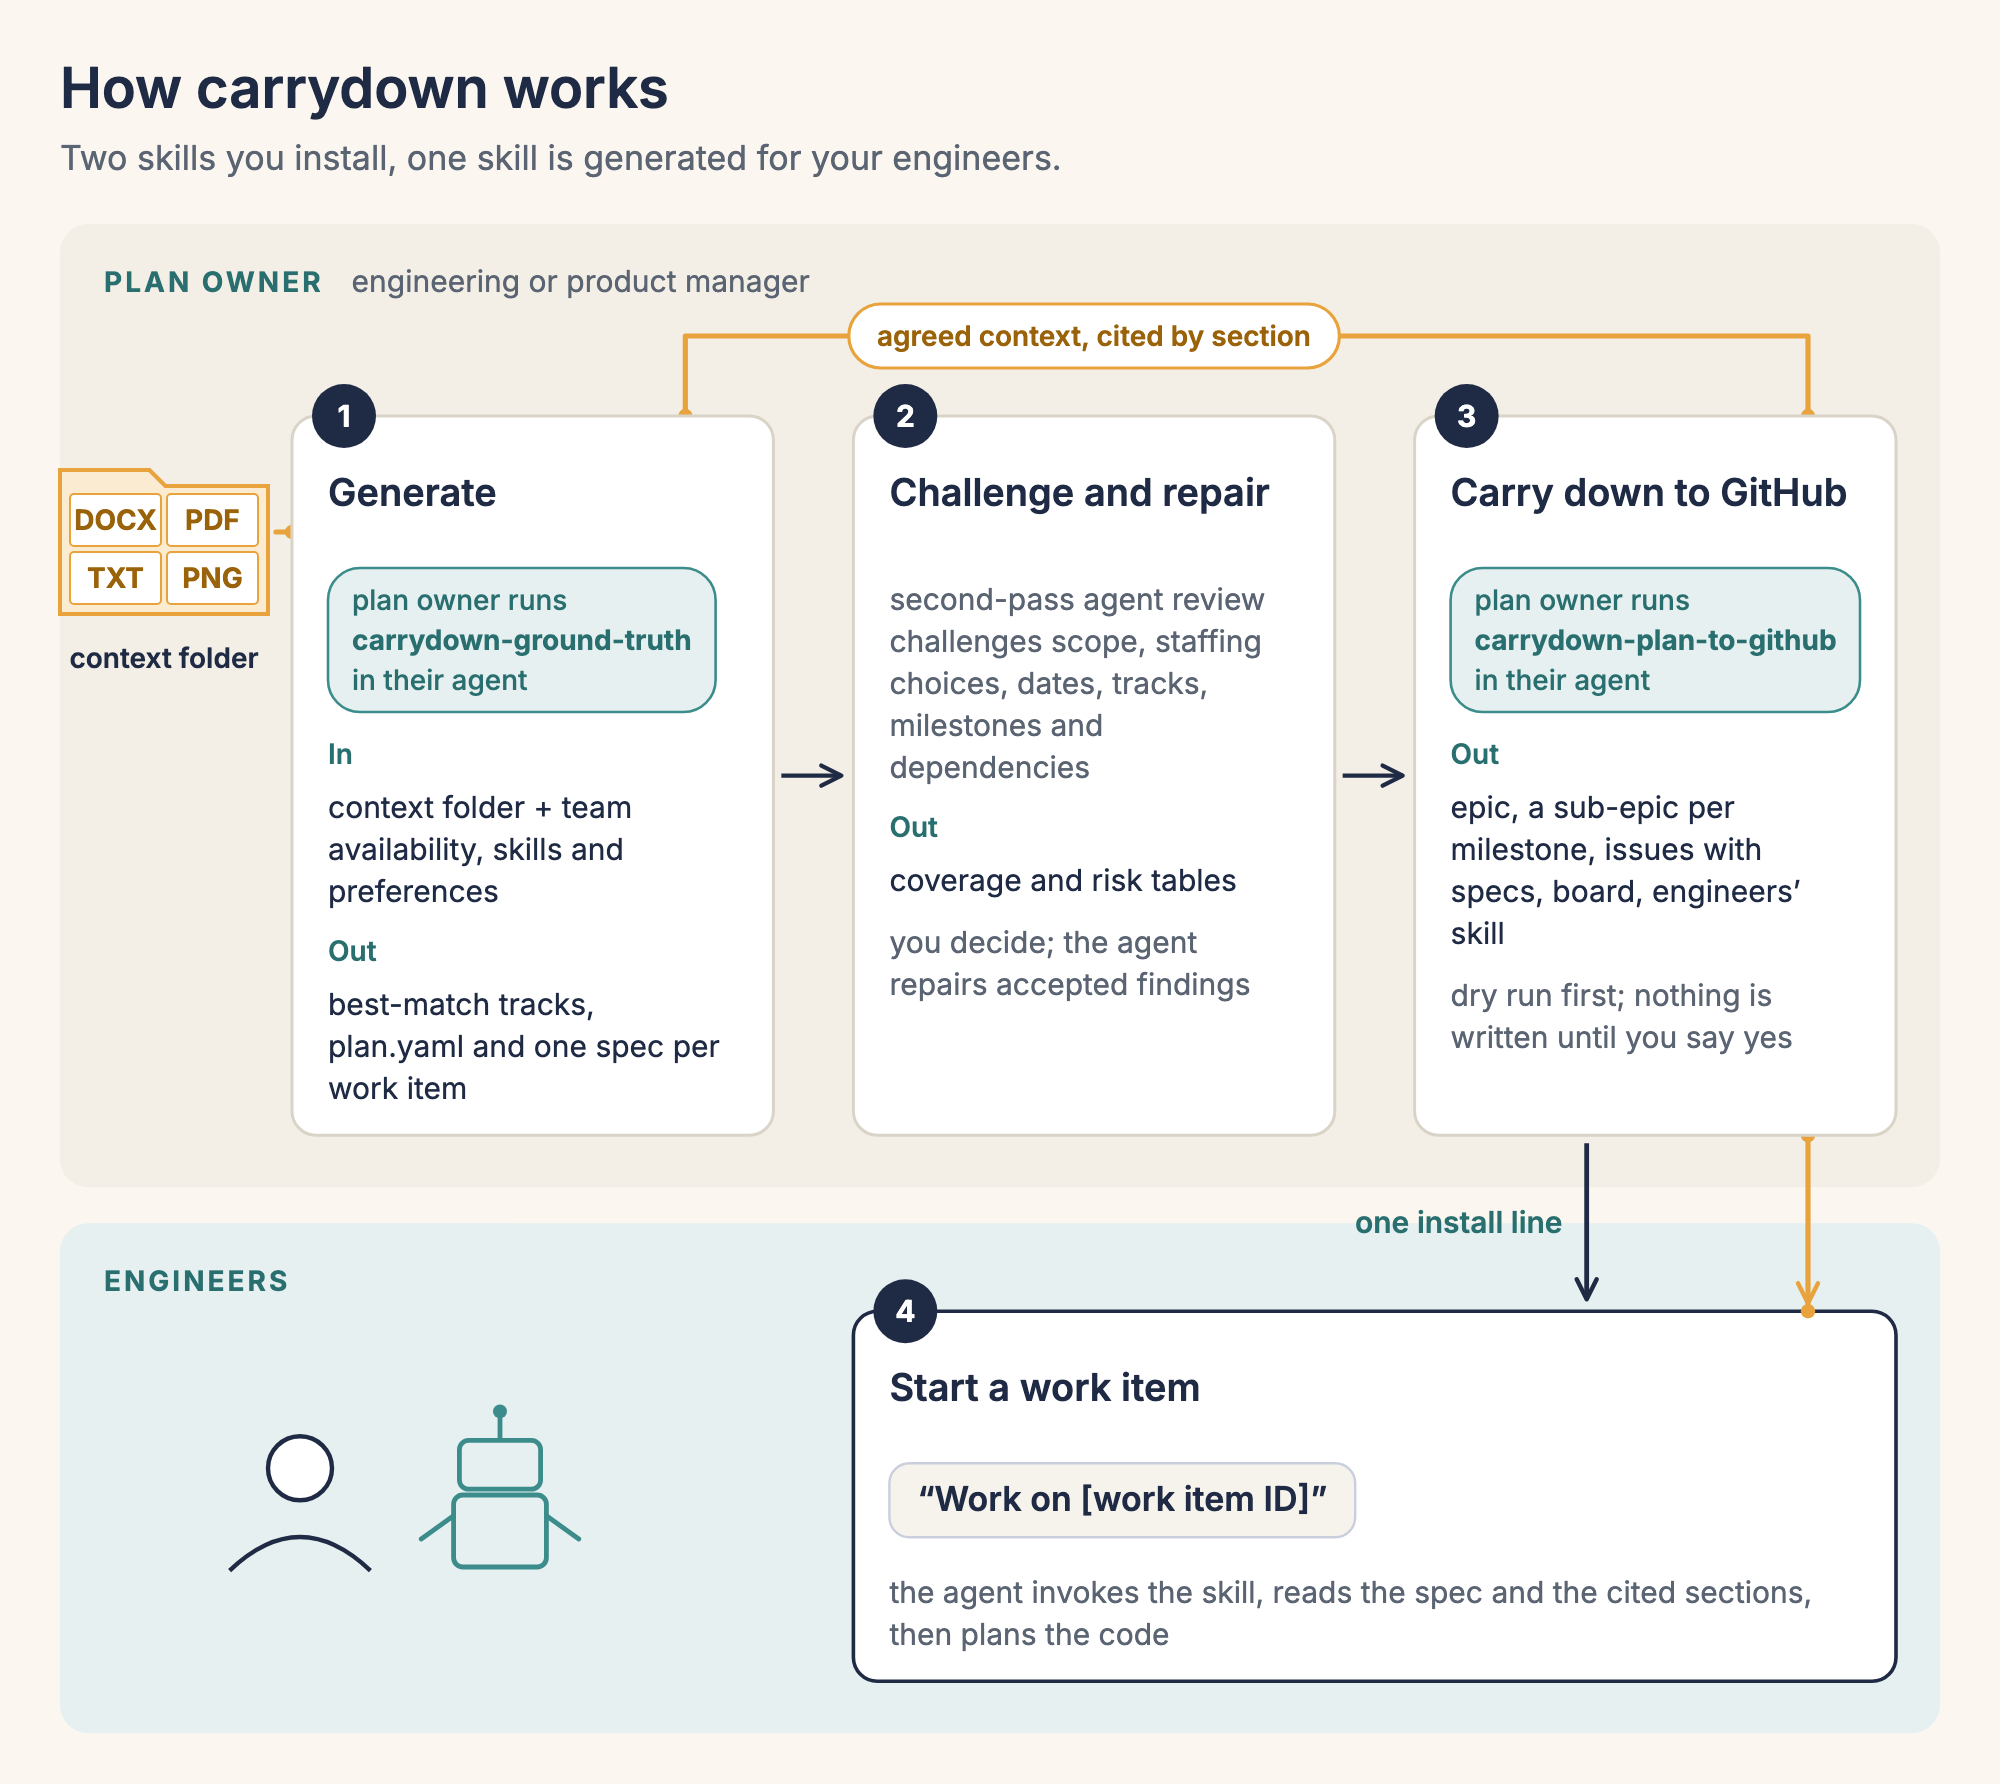
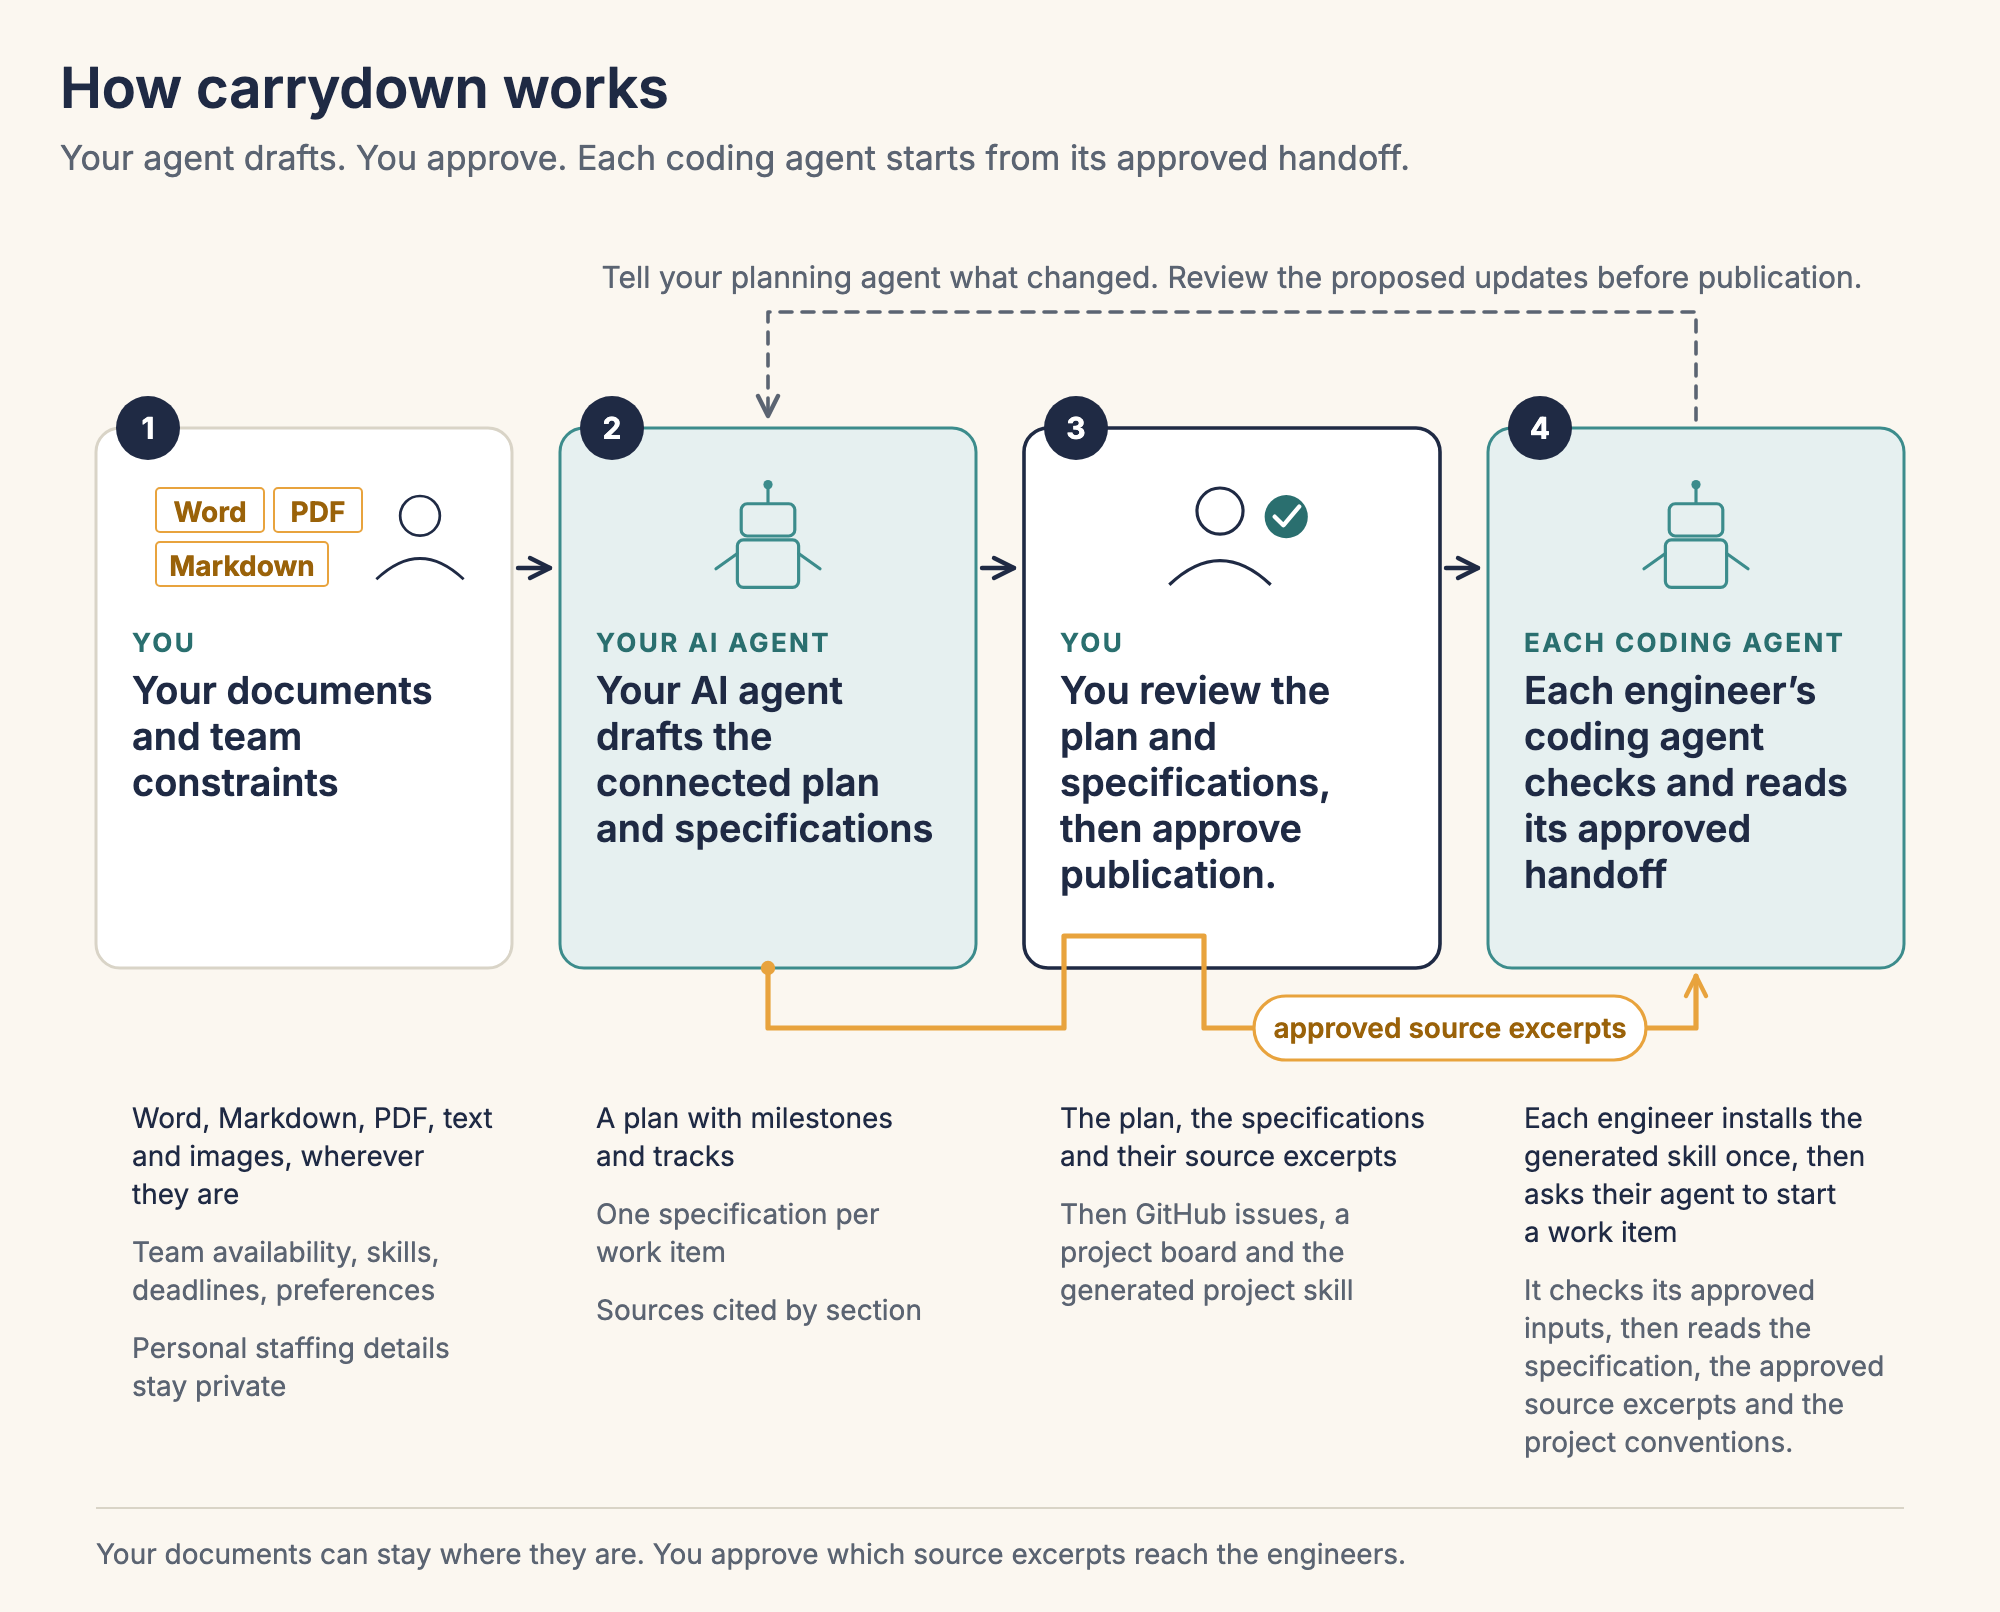
Redraw the README handoff diagram for the confidentiality controls

diff --git a/README.md b/README.md
@@ -53,9 +53,9 @@ When you report a specification problem, your agent drafts a request for you to 
 
 ## How it works
 
-![A context folder with DOCX, PDF, TXT and PNG files and optional team availability, skills and work preferences feed the carrydown flow. Your AI agent proposes best-match tracks and assignments, plans around capacity and dependencies, and drafts a specification for each work item. After script checks, a second-pass agent review challenges scope, staffing choices, dates, tracks, milestones and dependencies. It produces coverage and risk tables. You decide which findings the agent repairs and approve the result. The agent then creates GitHub epics, issues, a project board and the engineers' skill after dry runs. Engineers name a work item by its identifier, and that skill directs their agent to the specification and cited source sections. An amber thread carries the agreed context through each handoff.](docs/images/handoff.png)
+![Four stages. First, your documents and team constraints. Second, your AI agent drafts the connected plan and specifications. Third, you review the plan and specifications, then approve publication. Fourth, each engineer's coding agent checks and reads its approved handoff: the specification, the approved source excerpts and the project conventions. An amber line carries the approved source excerpts from the draft through your approval to the coding agent. Each engineer installs the generated skill once, then asks their agent to start a work item. A return arrow says to tell your planning agent what changed and review the proposed updates before publication. Your documents can stay where they are, and you approve which source excerpts reach the engineers.](docs/images/handoff.png)
 
-*The diagram predates the confidentiality controls and is kept as a legacy picture until it is redrawn. Read it with these two corrections. The context folder can stay outside the project. The engineers' agent reads the approved context of the work item, which holds the exact text of the cited sections, not the source documents.*
+*Your agent drafts, you approve, and each coding agent starts from its approved handoff.*
 
 1. **Plan for your team.** Tell the agent where the ground truth is. It can include Word, Markdown, plain text, PDF and image files for architecture, requirements, governance rules, development standards and company context. The agent inventories the files and creates reviewable Markdown renderings. It reports files it cannot read and continues with the sources it can process. Put higher-precedence sources first when they can conflict. If you know the team size and target project duration, include them. You may also supply each engineer's skills and preferred work. The agent uses them to propose best-match tracks and assignments, explains tradeoffs, and falls back to the default assignment approach when the information is missing or unclear. When the staffing inputs are absent or unclear, planning continues with the default capacity, dependency and context-switching rules. The `carrydown-ground-truth` skill interviews you, then drafts a plan and one specification per work item around your constraints. Each engineer has a track, or lane of work. Each milestone ends with an integrated demonstration. Names, skills, days off and allocation are kept in a private file on your machine, not in the plan. Confidential documents can stay outside the project: the first question the agent asks decides whether drafting happens in the repository or in a private workspace.
 2. **Challenge, repair and approve.** After the normal checks, the agent makes a separate adversarial pass over the completed plan and specifications. It looks for missing scope, resource conflicts, dependency errors and better sequencing. Review its coverage and risk tables in `docs/spec/plan-review.md`, then let the agent apply the repairs you accept. You decide the owners, dates, scope and order.

diff --git a/docs/recording-storyboard.md b/docs/recording-storyboard.md
@@ -47,11 +47,11 @@ The sample is fictional: the company, the people and the dates are invented, and
 
 ## Images and captions already in the repository
 
-The pictures below were made before the confidentiality controls. They show the fictional sample. None shows a path or a staffing record. One shows the plan owner's own public account name, noted in the table. Each is kept until it is redrawn or retaken, and the diagram is marked as a legacy picture where it appears.
+The pictures below show the fictional sample. None shows a path or a staffing record. One shows the plan owner's own public account name, noted in the table. The README diagram was redrawn after the confidentiality controls. The other pictures were made before them, and each is kept until it is redrawn or retaken.
 
 | Image | Where it appears | Status |
 | --- | --- | --- |
-| `docs/images/handoff.png` and `handoff.svg` | The README "How it works" section | Legacy pending redraw. It shows a "context folder" feeding the flow and an agent that "reads the spec and the cited sections". The README caption says the context folder can stay outside the project and that the agent reads the approved context. Redraw the last box to say "the spec and its approved context", and keep the PNG and SVG in step. |
+| `docs/images/handoff.png` and `handoff.svg` | The README "How it works" section | Current. Redrawn on 2026-11-22. It shows four stages: your documents and team constraints, the agent's draft, your review and approval, and each coding agent's approved handoff. The approved source excerpts pass through your approval, and a return arrow shows the reviewed update path. It shows no path or staffing record. |
 | `docs/images/second-pass-review.png` and `.svg` | `docs/method.md` | Current. It shows the review of the plan and does not mention where sources live. |
 | `docs/images/issue-9.png` | The README sample section | Legacy pending replacement. It is a screenshot of the public sample repository from before the release layout. It shows the plan owner's own GitHub account name and picture as the issue author, which is the real account that published the sample and not a fictional person. Its text says the skill makes the agent read "the ground truth sections it cites", where the current text says the approved context. Retake it after the sample repository is republished from the current sample. |
 | `docs/images/board.png` | Nowhere since November 2026, when the README sample section was shortened to one picture; kept for the recording | Current. It shows tracks, dates and checkpoints, and no name or login. |
